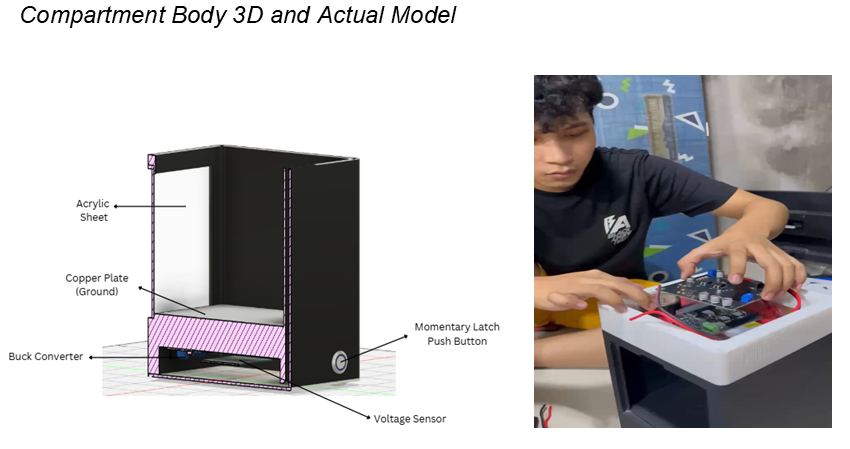
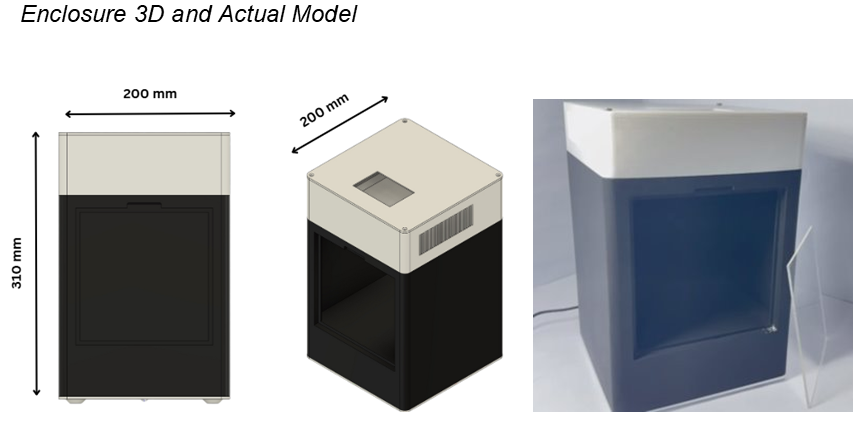
Update project description for clarity and conciseness in index.html

diff --git a/index.html b/index.html
@@ -689,10 +689,9 @@
           </p>
 
           <ul class="proj-bullets">
-            <li>Led data analysis using R for microbial load reduction validation, including statistical testing (t-test, ANOVA) and regression modeling.</li>
+            <li>Led data analysis in R for microbial load reduction validation using t-tests, ANOVA, and regression modeling; supported experimental CFU/g reduction testing.</li>
             <li>Assisted in Fusion 360 CAD design and prototyping of the modular enclosure and plasma chamber structure.</li>
             <li>Contributed to embedded system development, including C++ programming for TFT LCD interface and microcontroller control logic.</li>
-            <li>Participated in experimental testing and microbial load measurement (CFU/g reduction analysis).</li>
           </ul>
 
           <div class="proj-tools">
